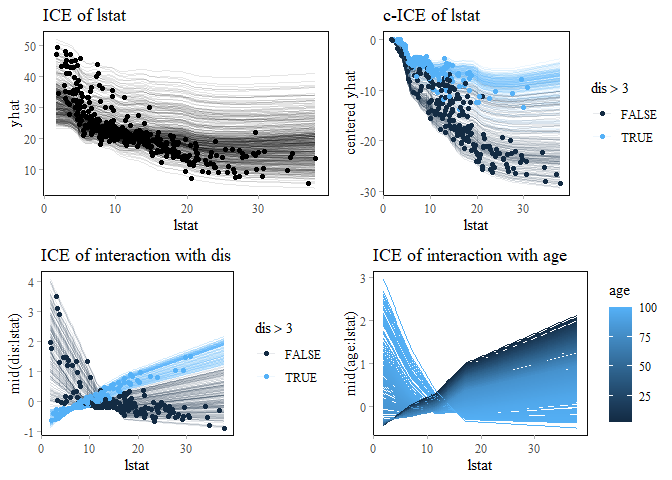
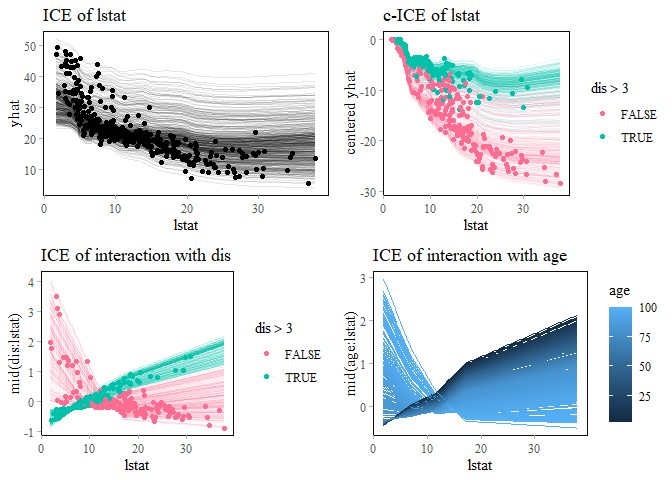
version 0.5.0.902 - Rewrite interpret.formula()

Changed region(s): [[0.5625, 0.0625, 0.8438, 0.4062], [0.0625, 0.5938, 0.3438, 0.9062]]

diff --git a/README.md b/README.md
@@ -89,9 +89,9 @@ mid
 #> Uninterpreted Variation Ratio: 0.016249
 preds_mid <- predict(mid, valid)
 cat("RMSE: ", weighted.rmse(preds_rf, preds_mid))
-#> RMSE:  1.106746
+#> RMSE:  1.106763
 cat("RMSE: ", weighted.rmse(valid$medv, preds_mid))
-#> RMSE:  3.306111
+#> RMSE:  3.306072
 ```
 
 To visualize the main and interaction effects of the variables, apply
@@ -150,7 +150,7 @@ grid.arrange(nrow = 1L,
   ggmid(bd1, "waterfall", theme = "Tableau 10", max.bars = 14L) +
     theme(legend.position = "bottom") +
     ggtitle("breakdown of prediction 1"),
-  ggmid(bd9, "waterfall", theme = "Tableau 10", max.bars = 14L) +
+  ggmid(bd9, "waterfall", theme = "Zissou 1", max.bars = 14L) +
     theme(legend.position = "bottom") +
     ggtitle("breakdown of prediction 9")
 )

diff --git a/NEWS.md b/NEWS.md
@@ -1,3 +1,9 @@
+# midr 0.5.0.902
+
+- Rewrite "interpret.formula()" to make it able to be called in another function: resolve problems caused by `stats::model.frame()`
+- Add new tests for the above feature.
+- Refine the diverging color theme "midr".
+
 # midr 0.5.0.901
 
 - Fix "HCL" color theme to turn it to be a "qualitative" color theme.
